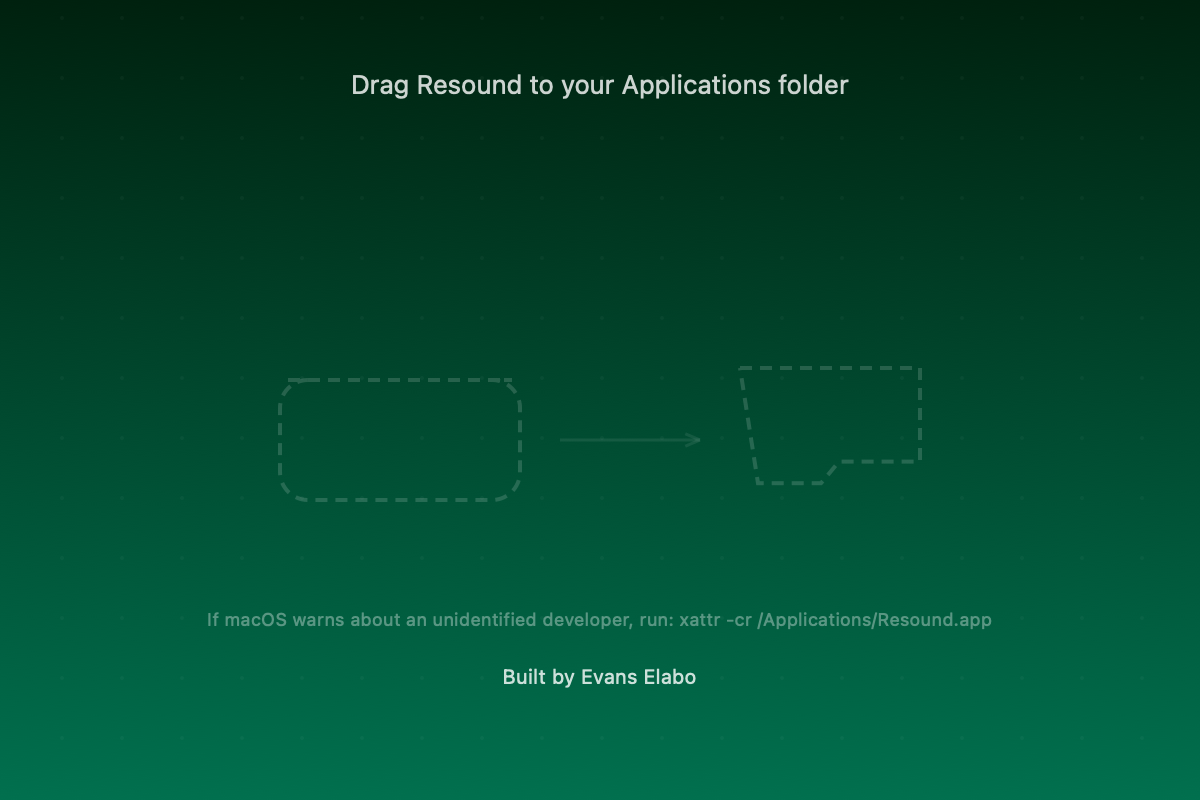
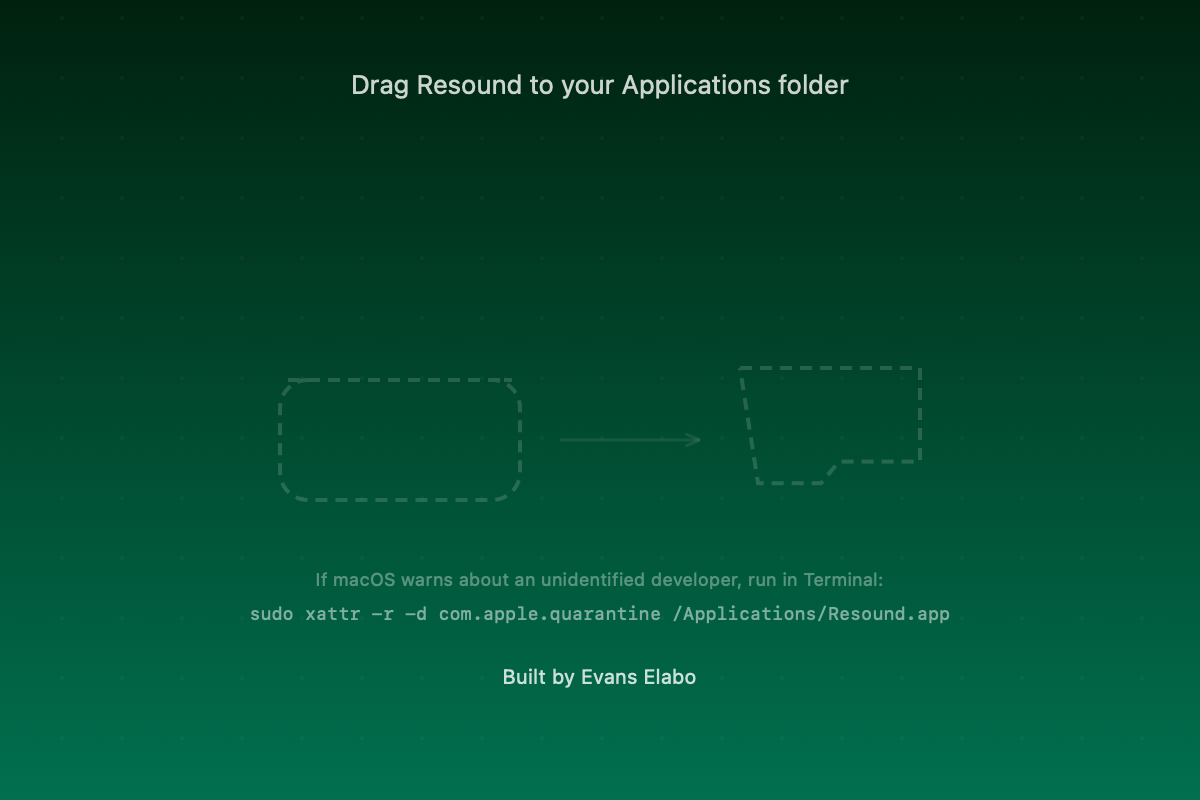
feat: Update Gatekeeper instructions in background generation script and fix security command

Changed region(s): [[0.185, 0.7188, 0.8325, 0.7812]]

diff --git a/DynamicIsland/scripts/generate-background.swift b/DynamicIsland/scripts/generate-background.swift
@@ -109,14 +109,21 @@ let instrAttr: [NSAttributedString.Key: Any] = [
 let instrSize = (instruction as NSString).size(withAttributes: instrAttr)
 (instruction as NSString).draw(at: CGPoint(x: CGFloat(width) / 2 - instrSize.width / 2, y: CGFloat(height) - 50), withAttributes: instrAttr)
 
-// Gatekeeper note — hidden fix available
-let gkNote = "If macOS warns about an unidentified developer, run: xattr -cr /Applications/Resound.app"
+// Gatekeeper note
+let gkNote = "If macOS warns about an unidentified developer, run in Terminal:"
+let gkNote2 = "sudo xattr -r -d com.apple.quarantine /Applications/Resound.app"
 let gkAttr: [NSAttributedString.Key: Any] = [
     .font: NSFont.systemFont(ofSize: 9, weight: .regular),
     .foregroundColor: NSColor(white: 1, alpha: 0.35)
 ]
+let gkAttr2: [NSAttributedString.Key: Any] = [
+    .font: NSFont.monospacedSystemFont(ofSize: 9, weight: .regular),
+    .foregroundColor: NSColor(white: 1, alpha: 0.5)
+]
 let gkSize = (gkNote as NSString).size(withAttributes: gkAttr)
-(gkNote as NSString).draw(at: CGPoint(x: CGFloat(width) / 2 - gkSize.width / 2, y: 85), withAttributes: gkAttr)
+(gkNote as NSString).draw(at: CGPoint(x: CGFloat(width) / 2 - gkSize.width / 2, y: 105), withAttributes: gkAttr)
+let gkSize2 = (gkNote2 as NSString).size(withAttributes: gkAttr2)
+(gkNote2 as NSString).draw(at: CGPoint(x: CGFloat(width) / 2 - gkSize2.width / 2, y: 88), withAttributes: gkAttr2)
 
 // Builder credit at bottom center
 let credit = "Built by Evans Elabo"
